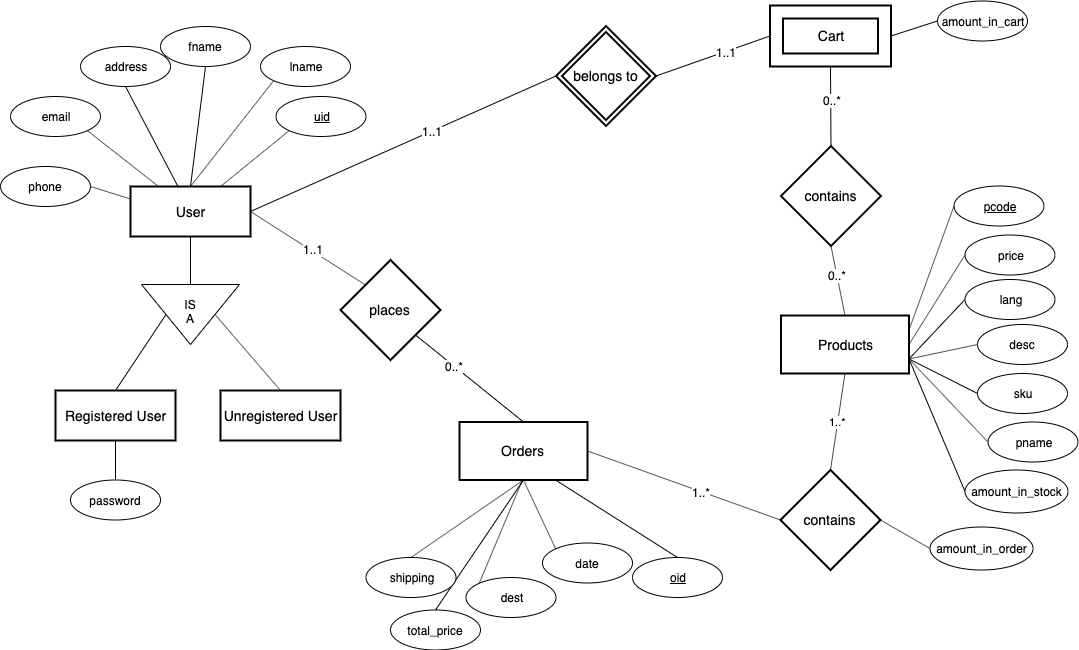
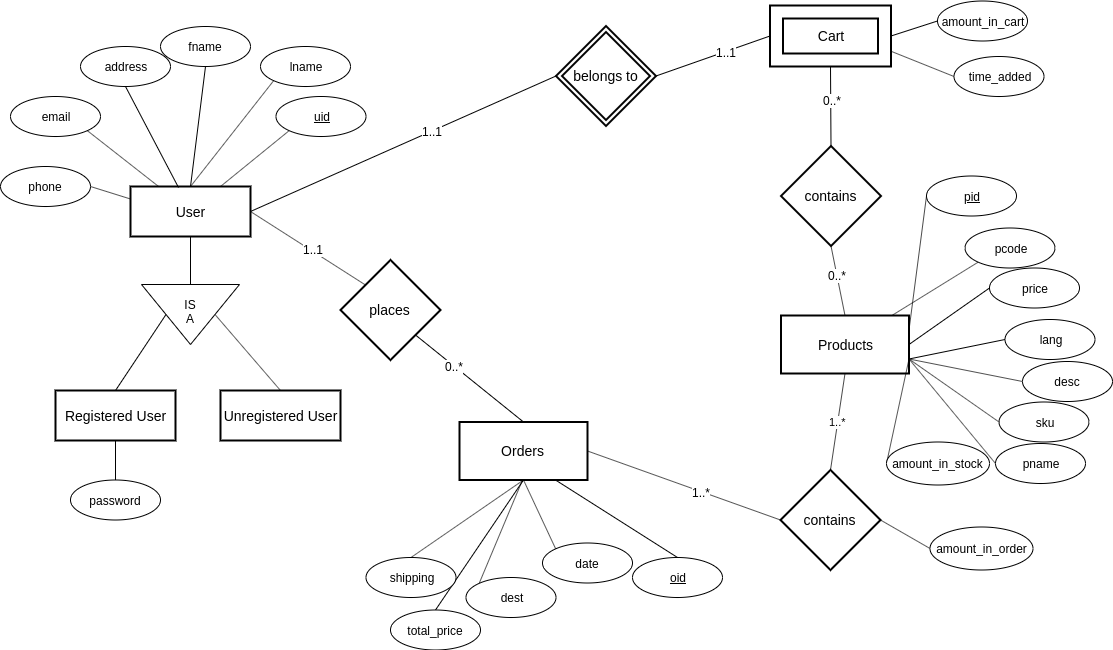
Implemented Karthik's feedback

diff --git a/doc/database-schema.md b/doc/database-schema.md
@@ -4,18 +4,20 @@ The entity-relationship diagram:
 ![ER diagram](diagrams/Database.png)
 
 This gives the following relations:
-- Products (*pcode*, price, sku, amount_in_stock, pname, desc, lang)
+- Products (*pid*, pcode, price, sku, amount_in_stock, pname, desc, lang)
 - Users (*uid*, fname, lname, address, phone, email, pass NULLABLE)
-- Carts (*uid → User*, pcode → Product, amount_in_cart)
+- Carts (*uid → User*, pid → Product, amount_in_cart, time_added)
 - Orders (*oid*, total_price, date, destination, shipping, uid → User)
-- ProductsInOrder (*oid → Orders*, *pcode → Products*, amount_in_order)
+- ProductsInOrder (*oid → Orders*, *pid → Products*, amount_in_order)
 
 Resulting in the following schema:
 
 ```sql
 create table Products (
   /* NOT NULL constraints could be changed depending on what we want */
-  pcode INT PRIMARY KEY,  -- could also be alphanumeric
+
+  pid INT PRIMARY KEY,
+  pcode INT,  -- could also be alphanumeric
   price float(2), -- assuming two decimal digits
   sku INT NOT NULL, -- I'm not sure of the notation of sku, could be a different type
   amount_in_stock INT CHECK(amount_in_stock >= 0),
@@ -36,22 +38,23 @@ create table Users (
 
 create table Carts (
   uid VARCHAR(20) references Users(uid) PRIMARY KEY,
-  pcode INT references Products(pcode) NOT NULL,
+  pid INT references Products(pid) NOT NULL,
   amount_in_cart INT NOT NULL CHECK (amount_in_cart > 0) -- if not in cart, not in table
+  time_added TIMESTAMPTZ NOT NULL
 );
 
 create table Orders (
   oid INT PRIMARY KEY,
   total_price float(2) NOT NULL,
-  date TIMESTAMP NOT NULL, -- maybe TIMESTAMPTZ?
+  date TIMESTAMPTZ NOT NULL,
   destination VARCHAR(50) NOT NULL,
   uid VARCHAR(20) references Users(uid)
 );
 
 create table ProductsInOrder (
   oid INT references Orders(oid),
-  pcode INT references Products(pcode),
+  pid INT references Products(pid),
   amount_in_order INT NOT NULL CHECK (amount_in_order > 0),
-  PRIMARY KEY (oid, pcode)
+  PRIMARY KEY (oid, pid)
 );
 ```

diff --git a/doc/microservice-design.md b/doc/microservice-design.md
@@ -28,6 +28,7 @@ Shopping cart:
 * remove a product
 * empty the cart
 * retrieve all products in cart
+* modify amount in cart
 
 Checkout:
 
